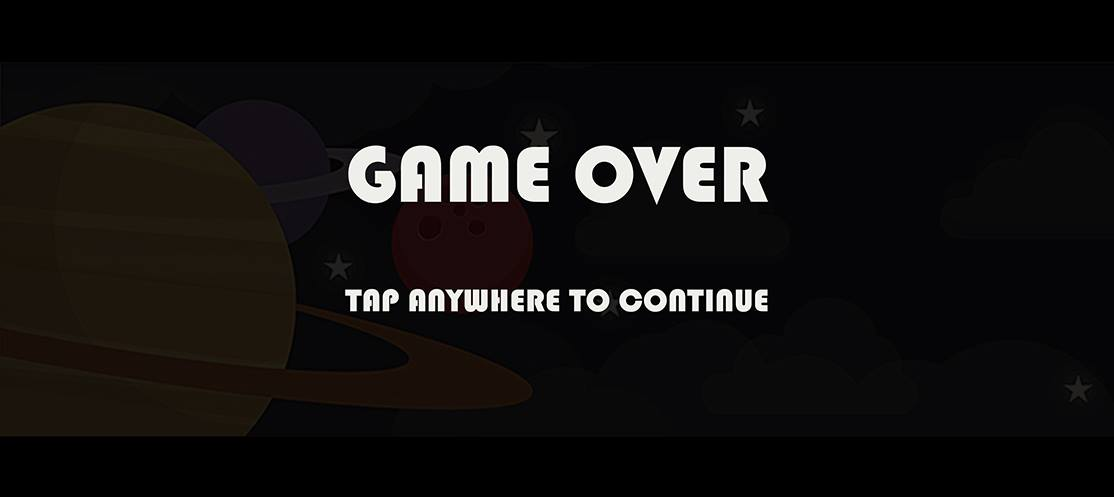
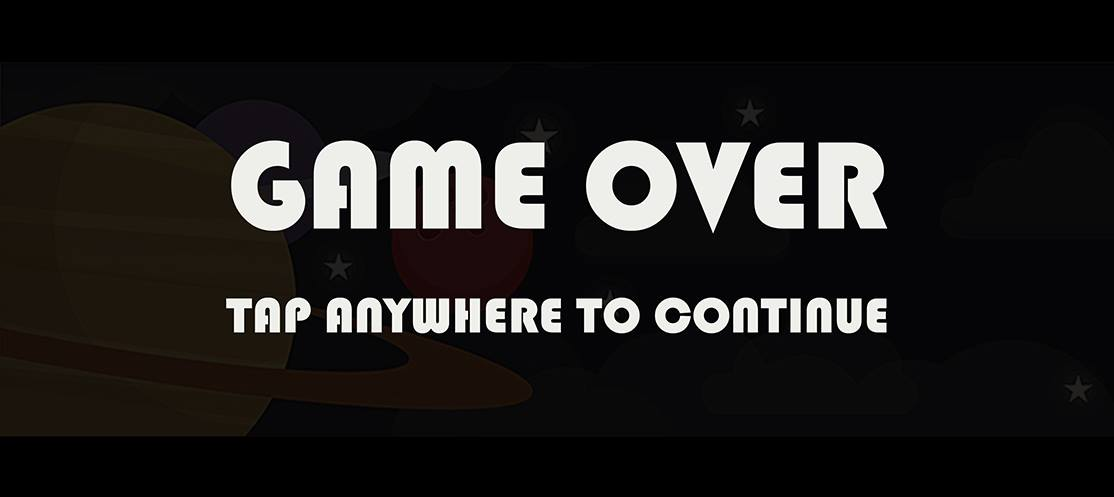
Fixed minor UI bug

Changed region(s): [[0.1831, 0.2716, 0.7935, 0.4829], [0.1831, 0.5734, 0.7935, 0.6942]]

diff --git a/core/src/com/spacejunk/game/GameScreen.java b/core/src/com/spacejunk/game/GameScreen.java
@@ -116,6 +116,8 @@ public class GameScreen implements Screen {
 
 
 		mainMenu = new Texture("main_menu_background.jpg");
+		mainMenu.setWrap(Texture.TextureWrap.Repeat, Texture.TextureWrap.Repeat);
+
 		mainMenuMiddle = new Texture("main_menu_middle.png");
 
 		scoreFont = new BitmapFont();
@@ -265,7 +267,6 @@ public class GameScreen implements Screen {
 		// We are making use of the painters algorithm here
 		drawBackground();
 
-
 		shapeRenderer.setColor(Color.RED);
 		renderObstacles(false);
 		shapeRenderer.setColor(Color.GREEN);
@@ -358,7 +359,7 @@ public class GameScreen implements Screen {
 		canvas.end();
 
 
-		mainMenuImageIndex += GameConstants.BACKGROUND_SPEED;
+		mainMenuImageIndex += GameConstants.MAIN_MENU_BACKGROUND_SPEED;
 
 		if (mainMenuImageIndex > mainMenu.getWidth()) {
 			mainMenuImageIndex = 0;
@@ -670,7 +671,7 @@ public class GameScreen implements Screen {
 			backgroundImageIndex += GameConstants.BACKGROUND_SPEED;
 		}
 
-		if (backgroundImageIndex > background.getWidth()) {
+		if ( backgroundImageIndex > background.getWidth()) {
 			backgroundImageIndex = 0;
 		}
 	}

diff --git a/core/src/com/spacejunk/game/constants/GameConstants.java b/core/src/com/spacejunk/game/constants/GameConstants.java
@@ -19,6 +19,7 @@ public class GameConstants {
 
     /* Background Speed Constant */
     public static final int BACKGROUND_SPEED = 4;
+    public static final int MAIN_MENU_BACKGROUND_SPEED = 2;
 
     /* Vertical Speed Constant */
     public static final int VERTICAL_SPEED = 10;

diff --git a/core/src/com/spacejunk/game/Controller.java b/core/src/com/spacejunk/game/Controller.java
@@ -64,7 +64,6 @@ public class Controller {
     }
 
 
-
     public boolean settingsMenuButtonIsPressed() {
         return Gdx.input.getX() >= 0 &&
                 Gdx.input.getX() <= optionsMenu.getOptionsMenuTexures()[0].getWidth() &&
